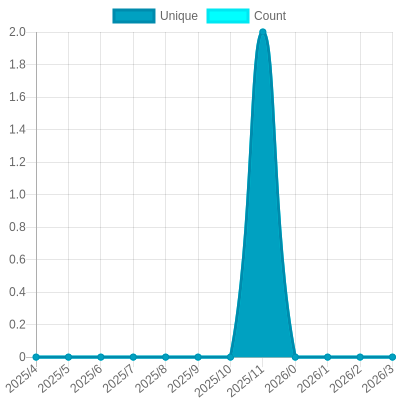
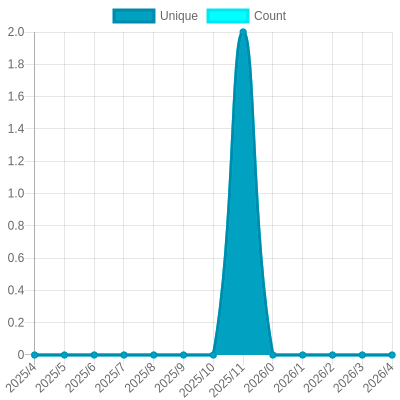
Update views

diff --git a/README.md b/README.md
@@ -26,7 +26,7 @@ The project created and maintained by [gayanvoice](https://github.com/gayanvoice
 			</a>
 		</td>
 		<td>
-			2025/4/29 1:52 AM UTC
+			2025/4/30 1:52 AM UTC
 		</td>
 		<td>
 			2
@@ -37,7 +37,7 @@ The project created and maintained by [gayanvoice](https://github.com/gayanvoice
 	</tr>
 </table>
 
-<small><i>Last updated on 2025/5/1 6:31 PM UTC</i></small>
+<small><i>Last updated on 2025/5/2 1:53 AM UTC</i></small>
 
 ## ✂Copy and 📋 Paste
 ### Total Views Badge

diff --git a/readme/812208184/year.md b/readme/812208184/year.md
@@ -20,6 +20,17 @@
 	</tr>
 	<tr>
 		<td>
+			<code>2025/5/1</code>
+		</td>
+		<td>
+			<code>0</code>
+		</td>
+		<td>
+			<code>0</code>
+		</td>
+	</tr>
+	<tr>
+		<td>
 			<code>2025/4/1</code>
 		</td>
 		<td>
@@ -153,7 +164,7 @@
 </table>
 
 </details>
-<small><i>Last updated on 2025/5/1 6:31 PM UTC</i></small>
+<small><i>Last updated on 2025/5/2 1:52 AM UTC</i></small>
 
 ## ✂Copy and 📋 Paste
 ### SVG Badge
